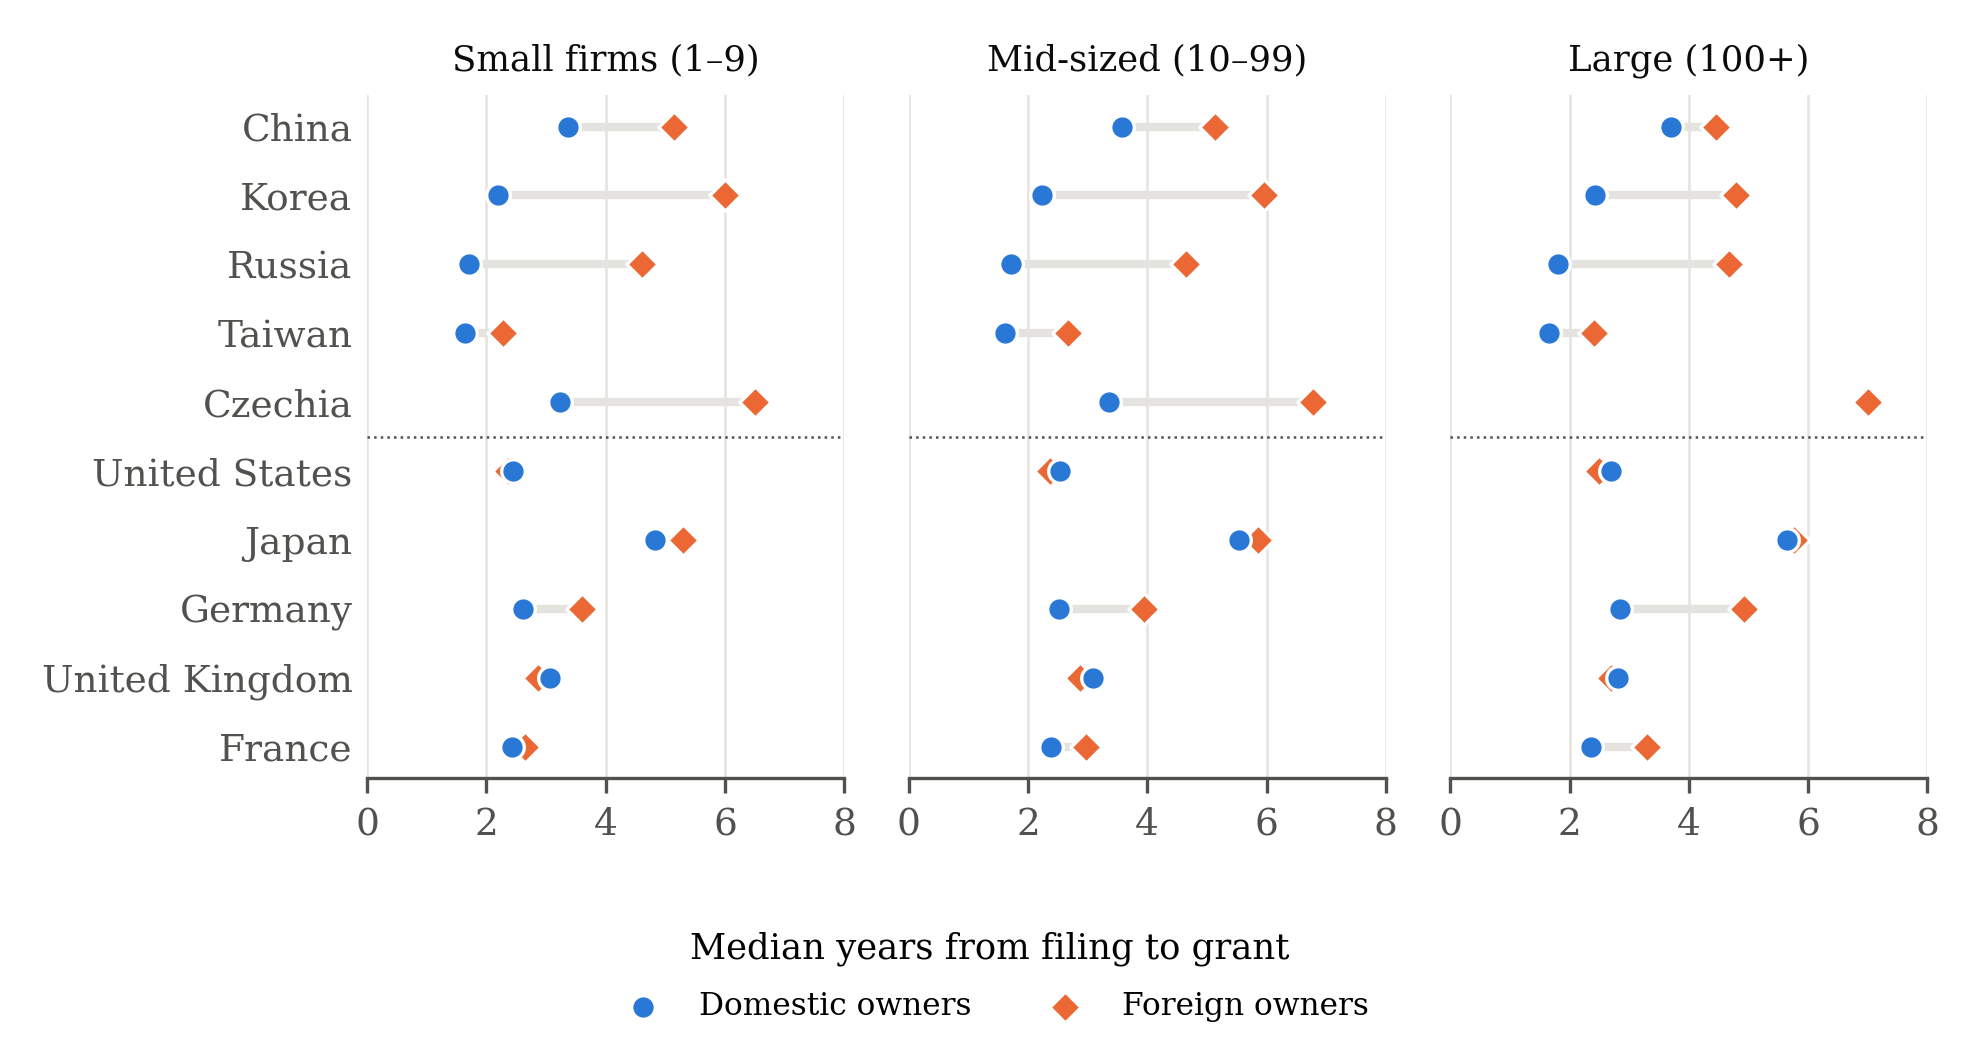
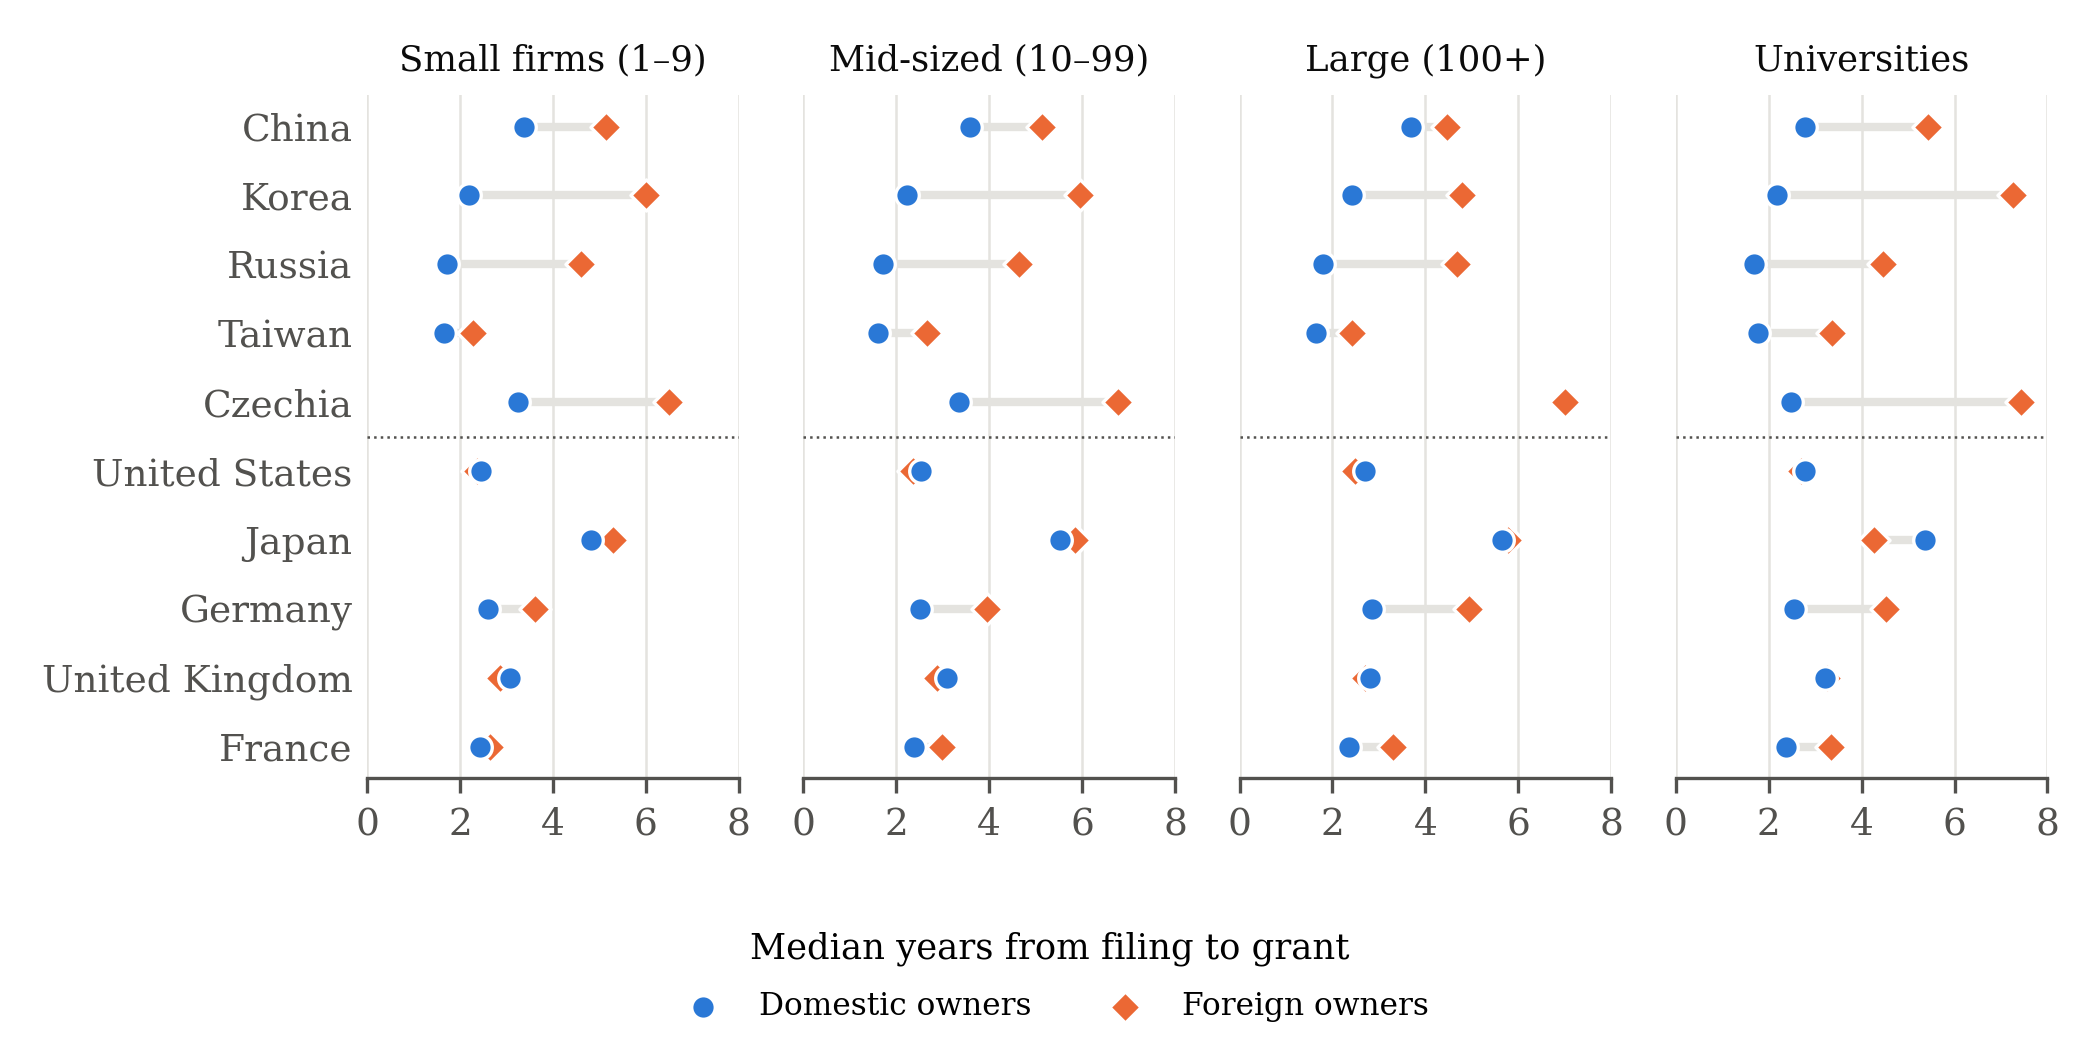
Table 1: add universities; grant lags shown only as a four-panel figure

diff --git a/sections/data.tex b/sections/data.tex
@@ -32,7 +32,7 @@ offices. For patent $i$ of owner group $g$ in office $o$, filed in year $t$ in f
 \end{equation}
 where $y_i$ indicates that the patent is alive eight years after grant,\footnote{Survival is measured from
 grant because renewal fees are due from grant. Grant lags differ across offices and between domestic and foreign
-owners in the same office (Appendix Table~\ref{tab:lags} and Figure~\ref{fig:lags}), so a fixed age from filing would
+owners in the same office (Appendix Figure~\ref{fig:lags}), so a fixed age from filing would
 compare patents that have faced different numbers of renewal decisions.} $D_i$ marks a domestic owner, $EM_o$ an
 emerging-market office and $c_i$ citations. The coefficient of interest, $\delta$, is the extra domestic--foreign gap
 in emerging-market offices, in percentage points. Standard errors are clustered by owner.
@@ -43,33 +43,35 @@ in emerging-market offices, in percentage points. Standard errors are clustered 
 \caption{The sample: granted patents filed 2000--2005, firms and universities}\label{tab:sample}
 \small
 % Source: em-patent-value output/sample_counts.csv (29_sample_tables.py)
-\begin{tabular}{lrrrrrrr}
+\setlength{\tabcolsep}{4pt}
+\begin{tabular}{lrrrrrrrrr}
 \toprule
- & & \multicolumn{3}{c}{Domestic owners} & \multicolumn{3}{c}{Foreign owners} \\
-\cmidrule(lr){3-5}\cmidrule(lr){6-8}
-Office & Patents & Small & Mid-sized & Large & Small & Mid-sized & Large \\
+ & & \multicolumn{4}{c}{Domestic owners} & \multicolumn{4}{c}{Foreign owners} \\
+\cmidrule(lr){3-6}\cmidrule(lr){7-10}
+ & & \multicolumn{3}{c}{Firms} & & \multicolumn{3}{c}{Firms} & \\
+\cmidrule(lr){3-5}\cmidrule(lr){7-9}
+Office & Patents & Small & Mid & Large & Univ. & Small & Mid & Large & Univ. \\
 \midrule
-China          &   363{,}574 & 26{,}155 & 12{,}411 &  27{,}983 & 41{,}845 & 40{,}870 & 143{,}289 \\
-Korea          &   371{,}332 & 33{,}505 & 21{,}556 & 157{,}473 &  8{,}283 & 16{,}088 &  50{,}457 \\
-Russia         &   129{,}038 & 10{,}130 &  3{,}397 &       841 &  8{,}202 &  6{,}144 &   4{,}993 \\
-Taiwan         &   150{,}743 &  6{,}038 &  8{,}190 &  28{,}420 &  7{,}510 & 15{,}834 &  76{,}313 \\
-Czech Republic &     4{,}061 &      584 &      325 &        -- &      571 &      826 &   1{,}249 \\
+China          &   363{,}574 & 26{,}155 & 12{,}411 &  27{,}983 & 39{,}836 & 41{,}845 & 40{,}870 & 143{,}289 &  3{,}982 \\
+Korea          &   371{,}332 & 33{,}505 & 21{,}556 & 157{,}473 & 19{,}530 &  8{,}283 & 16{,}088 &  50{,}457 &  1{,}248 \\
+Russia         &   129{,}038 & 10{,}130 &  3{,}397 &       841 & 15{,}738 &  8{,}202 &  6{,}144 &   4{,}993 &      467 \\
+Taiwan         &   150{,}743 &  6{,}038 &  8{,}190 &  28{,}420 &  6{,}665 &  7{,}510 & 15{,}834 &  76{,}313 &      916 \\
+Czech Rep.     &     4{,}061 &      584 &      325 &        -- &       95 &      571 &      826 &   1{,}249 &       24 \\
 \addlinespace
-United States  &   980{,}998 & 77{,}598 & 87{,}443 & 274{,}701 & 47{,}953 & 66{,}673 & 338{,}738 \\
-Japan          &   775{,}826 & 23{,}780 & 55{,}011 & 539{,}643 &  5{,}561 &  9{,}718 &  27{,}163 \\
-Germany        &    81{,}937 & 11{,}218 & 15{,}326 &  33{,}302 &  1{,}669 &  3{,}104 &  13{,}403 \\
-United Kingdom &    41{,}383 &  6{,}095 &  4{,}085 &   1{,}730 &  3{,}219 &  5{,}028 &  19{,}964 \\
-France         &    62{,}937 & 11{,}228 & 10{,}448 &  21{,}569 &  1{,}465 &  1{,}957 &   8{,}368 \\
+United States  &   980{,}998 & 77{,}598 & 87{,}443 & 274{,}701 & 28{,}373 & 47{,}953 & 66{,}673 & 338{,}738 & 17{,}002 \\
+Japan          &   775{,}826 & 23{,}780 & 55{,}011 & 539{,}643 & 15{,}540 &  5{,}561 &  9{,}718 &  27{,}163 &  1{,}141 \\
+Germany        &    81{,}937 & 11{,}218 & 15{,}326 &  33{,}302 &  3{,}587 &  1{,}669 &  3{,}104 &  13{,}403 &      210 \\
+United Kingdom &    41{,}383 &  6{,}095 &  4{,}085 &   1{,}730 &      445 &  3{,}219 &  5{,}028 &  19{,}964 &      591 \\
+France         &    62{,}937 & 11{,}228 & 10{,}448 &  21{,}569 &  3{,}753 &  1{,}465 &  1{,}957 &   8{,}368 &      162 \\
 \midrule
-Total          & 2{,}961{,}829 & 206{,}331 & 218{,}192 & 1{,}085{,}662 & 126{,}278 & 166{,}242 & 683{,}937 \\
+Total          & 2{,}961{,}829 & 206{,}331 & 218{,}192 & 1{,}085{,}662 & 133{,}562 & 126{,}278 & 166{,}242 & 683{,}937 & 25{,}743 \\
 \bottomrule
 \end{tabular}
 \begin{tablenotes}\footnotesize
 \item \emph{Notes:} Granted invention patents filed 2000--2005 with a grant lag of up to ten years; individual
 owners excluded. Patents: all firms, universities and owners of unknown type. Firm size: inventions (DOCDB families)
-filed worldwide by the harmonised applicant in 2000--2005; small 1--9, mid-sized 10--99, large 100 or more. No Czech
-firm reaches 100. Universities and public research organisations hold 133{,}562 domestic and 25{,}743 foreign
-patents. Source: PATSTAT Global, autumn 2025.
+filed worldwide by the harmonised applicant in 2000--2005; small 1--9, mid-sized 10--99, large 100 or more; no Czech
+firm reaches 100. Univ.: universities and public research organisations. Source: PATSTAT Global, autumn 2025.
 \end{tablenotes}
 \end{threeparttable}
 \end{table}

diff --git a/sections/appendix.tex b/sections/appendix.tex
@@ -48,45 +48,14 @@ Germany, the United Kingdom, France, Canada, Australia, Spain, the Netherlands a
 emerging-market offices I use the first five. The results with all ten are very close (pooled estimate 4.5 points
 (1.4) against 4.3 (1.5)).
 
-\begin{table}[ht]
-\centering
-\begin{threeparttable}
-\caption{Grant lags by owner and firm size (median years from filing to grant)}\label{tab:lags}
-\small
-% Source: em-patent-value output/sample_lags.csv (29_sample_tables.py)
-\begin{tabular}{lcccccc}
-\toprule
- & \multicolumn{3}{c}{Domestic owners} & \multicolumn{3}{c}{Foreign owners} \\
-\cmidrule(lr){2-4}\cmidrule(lr){5-7}
-Office & Small & Mid-sized & Large & Small & Mid-sized & Large \\
-\midrule
-China          & 3.4 & 3.6 & 3.7 & 5.2 & 5.1 & 4.5 \\
-Korea          & 2.2 & 2.2 & 2.4 & 6.0 & 6.0 & 4.8 \\
-Russia         & 1.7 & 1.7 & 1.8 & 4.6 & 4.7 & 4.7 \\
-Taiwan         & 1.7 & 1.6 & 1.7 & 2.3 & 2.7 & 2.4 \\
-Czech Republic & 3.2 & 3.4 & --  & 6.5 & 6.8 & 7.0 \\
-\addlinespace
-United States  & 2.4 & 2.5 & 2.7 & 2.4 & 2.4 & 2.5 \\
-Japan          & 4.8 & 5.5 & 5.6 & 5.3 & 5.8 & 5.8 \\
-Germany        & 2.6 & 2.5 & 2.9 & 3.6 & 4.0 & 4.9 \\
-United Kingdom & 3.1 & 3.1 & 2.8 & 2.9 & 2.9 & 2.7 \\
-France         & 2.4 & 2.4 & 2.3 & 2.7 & 3.0 & 3.3 \\
-\bottomrule
-\end{tabular}
-\begin{tablenotes}\footnotesize
-\item \emph{Notes:} Median years from filing to the first grant publication, patents of Table~\ref{tab:sample}. Firm
-size as in Table~\ref{tab:sample}. Many foreign applications enter through the international (PCT) route, which adds
-up to 30 months before national examination begins.
-\end{tablenotes}
-\end{threeparttable}
-\end{table}
-
 \begin{figure}[ht]
 \centering
-\includegraphics[width=0.92\textwidth]{figures/fig1_grant_lags.png}
+\includegraphics[width=\textwidth]{figures/fig1_grant_lags.png}
 \caption{Grant lags by owner and firm size}\label{fig:lags}
-\figurenotes{Median years from filing to the first grant publication, as in Table~\ref{tab:lags}. Circles: domestic
-owners; diamonds: foreign owners. No Czech firm has 100 or more inventions.}
+\figurenotes{Median years from filing to the first grant publication, patents of Table~\ref{tab:sample}; firm size
+as in Table~\ref{tab:sample}. Circles: domestic owners; diamonds: foreign owners. No Czech firm has 100 or more
+inventions. Many foreign applications enter through the international (PCT) route, which adds up to 30 months before
+national examination begins. Source: em-patent-value output/sample\_lags.csv.}
 \end{figure}
 
 \paragraph{Owners and quality.} Owner identities are PATSTAT's harmonised applicant names (HAN). Sector comes from
